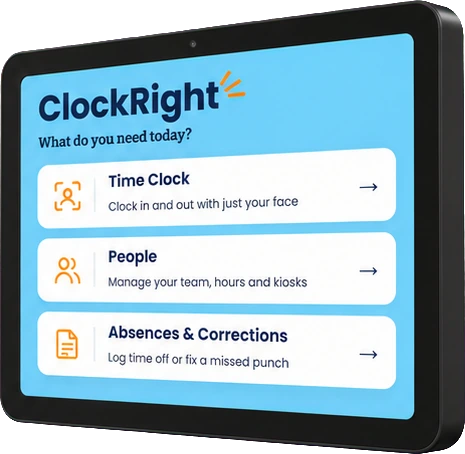
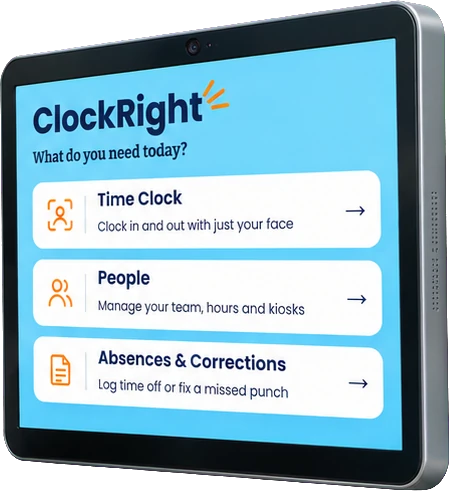
feat: ClockRight gerado do zero pelo Codex, com o terminal em perspectiva

Changed region(s): [[0.0, 0.0, 1.0, 1.0], [0.7795, 0.5859, 0.8107, 0.6167], [0.7795, 0.4009, 0.8107, 0.4317]]

diff --git a/src/pages/Mateus/Portfolio/ProjectStage.tsx b/src/pages/Mateus/Portfolio/ProjectStage.tsx
@@ -101,8 +101,8 @@ const STAGES: Partial<Record<PortfolioProjectId, StageConfig>> = {
 	clockright: {
 		circle: { x: 196, y: 70, d: 280 },
 		scene: clockrightCena,
-		person: { src: clockrightPessoa, right: 103, top: 100, h: 410 },
-		screens: [{ src: clockrightTela1, x: 335, y: 85, w: 159, bare: true, alt: "Menu do ClockRight" }],
+		person: { src: clockrightPessoa, right: 76, top: 100, h: 410 },
+		screens: [{ src: clockrightTela1, x: 362, y: 105, w: 135, bare: true, alt: "Menu do ClockRight" }],
 		caption: { x: 22, y: 96, w: 165 },
 	},
 	"central-clube-livro": {
